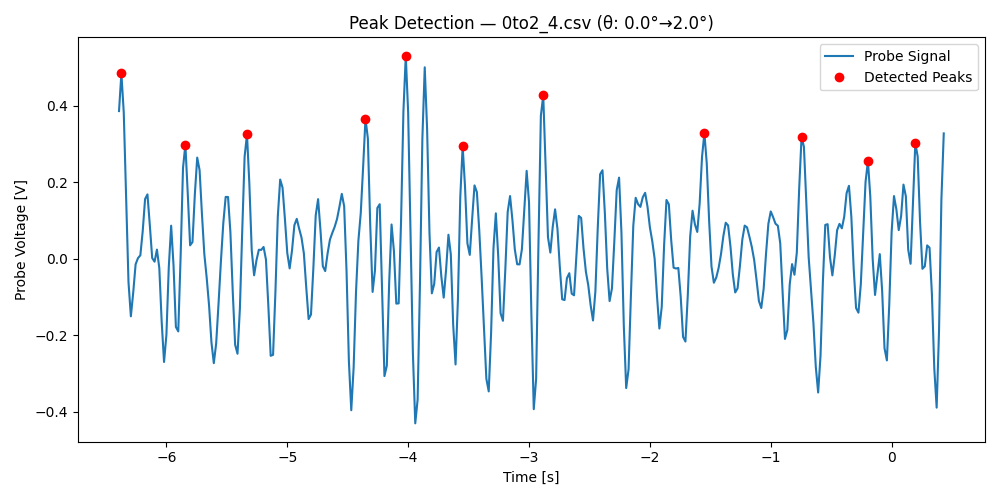
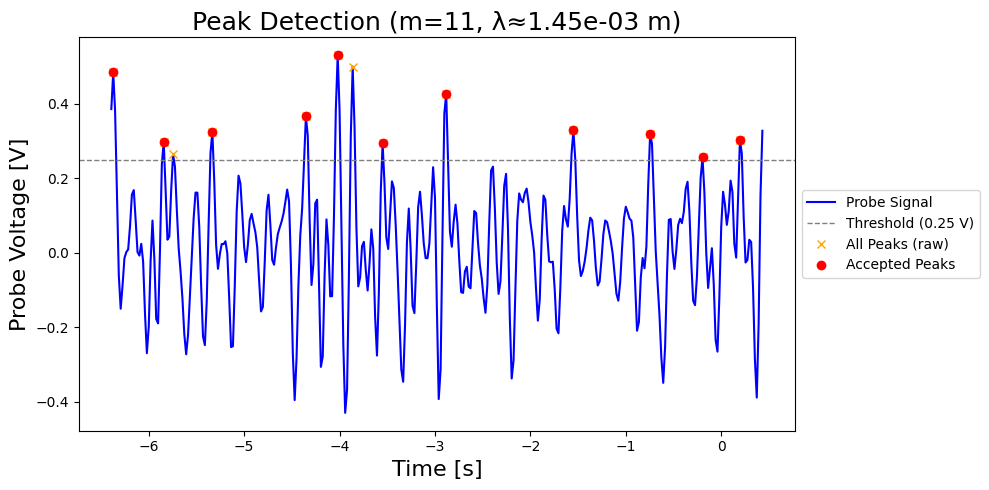
major changes

Changed region(s): [[0.0, 0.0306, 1.0, 0.8265], [0.0303, 0.7959, 1.0, 0.9796]]

diff --git a/noisefilter2.py b/noisefilter2.py
@@ -7,13 +7,12 @@ import os
 import csv
 
 # ---------------- Configuration (EDIT THESE TWO) ----------------
-lambda_m = 532e-9         # Laser wavelength in meters (EDIT: use your measured or nominal λ)
+lambda_m = 521e-9         # Laser wavelength in meters (EDIT: use your measured or nominal λ)
 d_slab_m = 8.0e-3         # Slab thickness in meters (EDIT: set to your slab thickness)
 
 # Peak detection parameters
 strong_threshold = 0.25   # V; keep only region where y >= this value
-peak_height = 0.25         # V; minimum peak height
-min_peak_separation_s = 0.25  # s; reject peaks closer than this in time
+peak_height = 0.25        # V; minimum peak height
 
 # Output
 out_dir = "results_n_estimation"
@@ -21,8 +20,6 @@ os.makedirs(out_dir, exist_ok=True)
 summary_csv = os.path.join(out_dir, "refractive_index_summary.csv")
 
 # ---------------- File groups and angle sweeps ----------------
-# We interpret the filename prefixes as angular sweeps: 0→2°, 0→4°, 0→6°.
-# Angles are in degrees here and converted to radians for computation.
 file_specs = []
 file_specs += [(f"0to2_{i}.csv", 0.0, 2.0) for i in (2, 4, 6)]
 file_specs += [(f"0to4_{i}.csv", 0.0, 4.0) for i in (2, 4, 6)]
@@ -46,8 +43,6 @@ def load_two_columns_csv(path):
     if not all_rows:
         raise ValueError(f"No valid numeric data in {path}")
     arr = np.array(all_rows, dtype=float)
-    if arr.shape[1] < 2:
-        raise ValueError(f"{path} does not contain at least two numeric columns")
     return arr[:,0], arr[:,1]
 
 # ---------------- Utility: trim to strong region ----------------
@@ -59,37 +54,28 @@ def trim_strong_region(t, y, threshold):
     last_idx = len(mask) - 1 - np.argmax(mask[::-1])
     return t[first_idx:last_idx+1], y[first_idx:last_idx+1]
 
-# ---------------- Utility: peak detection with time-spacing filter ----------------
+# ---------------- Utility: peak detection ----------------
 def detect_filtered_peaks(t, y, height=0.25, min_sep_fraction=0.04):
-    """
-    Detect peaks with minimum separation defined as a fraction of total duration.
-    """
     peaks, _ = find_peaks(y, height=height)
     if len(peaks) == 0:
         return []
-
     total_time = t[-1] - t[0]
     min_sep = min_sep_fraction * total_time
-
-    filtered_peaks = []
+    filtered = []
     last_time = -np.inf
     for p in peaks:
         tp = t[p]
         if tp - last_time > min_sep:
-            filtered_peaks.append(p)
+            filtered.append(p)
             last_time = tp
-    return filtered_peaks
+    return filtered
 
-
-
-# ---------------- Physics model functions ----------------
+# ---------------- Physics model ----------------
 def F(n, theta_rad):
-    # F(n, theta) = sqrt(n^2 - sin^2 theta) - cos theta
     s = math.sin(theta_rad)
     c = math.cos(theta_rad)
     inside = n*n - s*s
     if inside <= 0:
-        # Outside physical domain (total internal), but our theta_a → theta_b are small; keep guard.
         return float("nan")
     return math.sqrt(inside) - c
 
@@ -100,14 +86,8 @@ def m_predicted(n, theta_a_deg, theta_b_deg, d_slab, wavelength):
 
 def invert_n_from_m(m_meas, theta_a_deg, theta_b_deg, d_slab, wavelength,
                     n_lo=1.0001, n_hi=2.5):
-    """
-    Solve m_predicted(n) = m_meas for n in [n_lo, n_hi] using brentq.
-    Adjust n_hi if needed to ensure a sign change.
-    """
     def g(n):
         return m_predicted(n, theta_a_deg, theta_b_deg, d_slab, wavelength) - m_meas
-
-    # Ensure sign change by expanding n_hi if necessary (up to a safe ceiling).
     f_lo = g(n_lo)
     f_hi = g(n_hi)
     tries = 0
@@ -115,64 +95,73 @@ def invert_n_from_m(m_meas, theta_a_deg, theta_b_deg, d_slab, wavelength,
         n_hi += 0.25
         f_hi = g(n_hi)
         tries += 1
-
     if np.sign(f_lo) == np.sign(f_hi):
-        raise RuntimeError("Could not bracket a root for n; check inputs (m, angles, d, lambda).")
-
+        raise RuntimeError("Could not bracket root for n.")
     return brentq(g, n_lo, n_hi, xtol=1e-9, rtol=1e-9, maxiter=200)
 
 # ---------------- Main loop ----------------
 rows = []
-grouped_results = {2: [], 4: [], 6: []}   # store n_estimates by angle range
-grouped_m = {2: [], 4: [], 6: []}         # store m counts
+grouped_results = {2: [], 4: [], 6: []}
+grouped_m = {2: [], 4: [], 6: []}
 
+print("\n===== Trial Results =====")
 for fname, theta_a_deg, theta_b_deg in file_specs:
     if not os.path.exists(fname):
-        print(f"Warning: {fname} not found; skipping.")
+        print(f"{fname}: file not found; skipping.")
         continue
 
     try:
         t, y = load_two_columns_csv(fname)
     except Exception as e:
-        print(f"Error reading {fname}: {e}")
+        print(f"{fname}: error reading file ({e}).")
         continue
 
     t_trim, y_trim = trim_strong_region(t, y, strong_threshold)
     if t_trim is None:
-        print(f"{fname}: no data ≥ {strong_threshold:.2f} V; skipping.")
+        print(f"{fname}: no region ≥ {strong_threshold:.2f} V; skipping.")
         continue
 
     idx = detect_filtered_peaks(t_trim, y_trim, peak_height, min_sep_fraction=0.04)
     m_meas = int(len(idx))
 
-    # Numerical inversion for n
     try:
-        n_est = invert_n_from_m(
-            m_meas=m_meas,
-            theta_a_deg=theta_a_deg,
-            theta_b_deg=theta_b_deg,
-            d_slab=d_slab_m,
-            wavelength=lambda_m,
-            n_lo=1.0001,
-            n_hi=2.0
-        )
+        n_est = invert_n_from_m(m_meas, theta_a_deg, theta_b_deg, d_slab_m, lambda_m)
     except Exception as e:
         n_est = np.nan
-        print(f"{fname}: could not estimate n ({e}).")
 
-    # Save plot
+        # ---------------- Plot and save ----------------
     plt.figure(figsize=(10, 5))
-    plt.plot(t_trim, y_trim, label="Probe Signal")
+    plt.plot(t_trim, y_trim, label="Probe Signal", color="blue")
+
+    # Horizontal threshold line
+    plt.axhline(strong_threshold, color="gray", linestyle="--", linewidth=1,
+                label=f"Threshold ({strong_threshold} V)")
+
+    # Plot all raw peaks (before filtering)
+    all_peaks, _ = find_peaks(y_trim, height=peak_height)
+    plt.plot(t_trim[all_peaks], y_trim[all_peaks], "x", color="orange", label="All Peaks (raw)")
+
+    # Plot filtered peaks (after separation)
+    if len(idx) > 0:
+        plt.plot(t_trim[idx], y_trim[idx], "ro", label="Accepted Peaks")
+
+    plt.xlabel("Time [s]", fontsize=16)
+    plt.ylabel("Probe Voltage [V]", fontsize=16)
+
     if m_meas > 0:
-        plt.plot(t_trim[idx], y_trim[idx], "ro", label="Detected Peaks")
-    plt.xlabel("Time [s]")
-    plt.ylabel("Probe Voltage [V]")
-    plt.title(f"Peak Detection — {fname} (θ: {theta_a_deg}°→{theta_b_deg}°)")
-    plt.legend()
+        plt.title(f"Peak Detection (m={m_meas}, λ≈{2*d_slab_m/m_meas:.2e} m)",
+                fontsize=18)
+    else:
+        plt.title("Peak Detection (no valid peaks)", fontsize=18)
+
+    # Legend outside
+    plt.legend(loc="center left", bbox_to_anchor=(1, 0.5))
     plt.tight_layout()
+
     plot_path = os.path.join(out_dir, f"{os.path.splitext(fname)[0]}_peaks.png")
-    plt.savefig(plot_path)
+    plt.savefig(plot_path, bbox_inches="tight")
     plt.close()
+
 
     # Record
     rows.append({
@@ -184,36 +173,33 @@ for fname, theta_a_deg, theta_b_deg in file_specs:
         "plot": plot_path
     })
 
-    # Group results by final angle (2, 4, or 6 degrees)
-    end_angle = int(theta_b_deg)
+    grouped_m[int(theta_b_deg)].append(m_meas)
     if np.isfinite(n_est):
-        grouped_results[end_angle].append(n_est)
-    grouped_m[end_angle].append(m_meas)
+        grouped_results[int(theta_b_deg)].append(n_est)
 
     if np.isfinite(n_est):
-        print(f"{fname}: m = {m_meas:3d}, θ = {theta_a_deg:.1f}°→{theta_b_deg:.1f}°, n = {n_est:.5f}")
+        print(f"{fname}: m = {m_meas}, n = {n_est:.5f}")
     else:
-        print(f"{fname}: m = {m_meas:3d}, θ = {theta_a_deg:.1f}°→{theta_b_deg:.1f}°, n = NaN")
+        print(f"{fname}: m = {m_meas}, n = NaN")
 
-# ---------------- Summary statistics ----------------
+# ---------------- Summary ----------------
 def summarize(values):
     arr = np.array([x for x in values if np.isfinite(x)], dtype=float)
     if arr.size == 0:
-        return np.nan, np.nan, np.nan
+        return np.nan, np.nan
     mean = np.mean(arr)
-    std = np.std(arr, ddof=1) if arr.size > 1 else 0.0
-    sem = std / math.sqrt(arr.size) if arr.size > 1 else 0.0
-    return mean, std, sem
+    sem = np.std(arr, ddof=1)/math.sqrt(arr.size) if arr.size > 1 else 0.0
+    return mean, sem
 
 print("\n===== Summary by Angle Range =====")
 for angle in (2, 4, 6):
-    mean_m, std_m, sem_m = summarize(grouped_m[angle])
-    mean_n, std_n, sem_n = summarize(grouped_results[angle])
+    mean_m, sem_m = summarize(grouped_m[angle])
+    mean_n, sem_n = summarize(grouped_results[angle])
     print(f"0→{angle}°:")
-    print(f"  Peaks m: mean = {mean_m:.2f}, std = {std_m:.2f}, stderr = {sem_m:.2f}")
-    print(f"  Refractive index n: mean = {mean_n:.5f}, std = {std_n:.5f}, stderr = {sem_n:.5f}")
+    print(f"  Average m = {mean_m:.2f} ± {sem_m:.2f}")
+    print(f"  Average n = {mean_n:.5f} ± {sem_n:.5f}")
 
-# ---------------- Write CSV summary ----------------
+# ---------------- Save CSV ----------------
 with open(summary_csv, "w", newline="") as f:
     writer = csv.writer(f)
     writer.writerow(["file", "theta_start_deg", "theta_end_deg", "peaks_m", "n_estimate", "plot_path"])
@@ -222,4 +208,3 @@ with open(summary_csv, "w", newline="") as f:
 
 print(f"\nSummary written to: {summary_csv}")
 print(f"Plots saved under: {out_dir}/")
-

diff --git a/noisefilter.py b/noisefilter.py
@@ -8,8 +8,8 @@ d = 5e-6
 threshold = 0.25  # unified threshold (region + peak detection)
 
 # Store results
-peak_counts = []
-wavelengths = []
+peak_counts = []   # valid trials
+trial_results = [] # all trials (including skipped)
 
 # Ensure output folder exists
 out_dir = "results"
@@ -20,6 +20,7 @@ for i in range(1, 11):
     filename = f"c1_data_{i}.csv"
     if not os.path.exists(filename):
         print(f"Warning: {filename} not found, skipping.")
+        trial_results.append((i, None))
         continue
 
     # ---------------- 1) Load CSV (ignore comment lines) ----------------
@@ -37,6 +38,7 @@ for i in range(1, 11):
     data = np.array(all_data)
     if data.shape[1] < 2:
         print(f"{filename} does not have at least two columns, skipping.")
+        trial_results.append((i, None))
         continue
 
     # Extract time and probe signal
@@ -47,6 +49,7 @@ for i in range(1, 11):
     mask = y >= threshold
     if not mask.any():
         print(f"No data points >= {threshold} V in {filename}, skipping.")
+        trial_results.append((i, None))
         continue
 
     first_idx = np.argmax(mask)
@@ -73,7 +76,9 @@ for i in range(1, 11):
     if m > 0:
         wavelength = 2 * d / m
         peak_counts.append(m)
-        wavelengths.append(wavelength)
+        trial_results.append((i, m))
+    else:
+        trial_results.append((i, 0))
 
     # ---------------- 5) Plot and save ----------------
     plt.figure(figsize=(10, 5))
@@ -89,32 +94,53 @@ for i in range(1, 11):
     # Plot filtered peaks (after min separation)
     plt.plot(t[filtered_peaks], y[filtered_peaks], "ro", label="Accepted Peaks")
 
-    plt.xlabel("Time [s]")
-    plt.ylabel("Probe Voltage [V]")
-    plt.title(f"Peak Detection - {filename}\n(m={m}, λ={wavelength:.2e} m)")
-    plt.legend()
+    plt.xlabel("Time [s]", fontsize=16)
+    plt.ylabel("Probe Voltage [V]", fontsize=16)
+    plt.title(f"Peak Detection (m={m}, λ={2*d/m:.2e} m)" if m > 0 else f"Peak Detection (no valid peaks)", fontsize=18)
+
+    # Place legend outside on the right
+    plt.legend(loc="center left", bbox_to_anchor=(1, 0.5))
     plt.tight_layout()
-    plt.savefig(os.path.join(out_dir, f"{filename}_peaks.png"))
+
+    plt.savefig(os.path.join(out_dir, f"{filename}_peaks.png"), bbox_inches="tight")
     plt.close()
 
+
 # ---------------- 6) Summary statistics ----------------
+print("\nFringe counts per trial:")
+for trial, m in trial_results:
+    if m is None:
+        print(f" Trial {trial}: skipped (no valid data)")
+    elif m == 0:
+        print(f" Trial {trial}: no valid peaks")
+    else:
+        print(f" Trial {trial}: m = {m}")
+
 if peak_counts:
+    peak_counts = np.array(peak_counts)
+
+    # Average and standard error of fringe counts
     avg_peaks = np.mean(peak_counts)
-    std_peaks = np.std(peak_counts, ddof=1)  # sample std
-    stderr_peaks = std_peaks / np.sqrt(len(peak_counts))
+    std_peaks = np.std(peak_counts, ddof=1)   # sample standard deviation
+    stderr_peaks = std_peaks / np.sqrt(len(peak_counts))  # standard error of mean
 
-    wavelengths = np.array(wavelengths)
-    avg_wavelength = np.mean(wavelengths)
+    # Wavelength from mean fringe count
+    wavelength_mean = 2 * d / avg_peaks
 
-    # Error propagation
-    d_error = 1e-7  # error in d
-    sigma_m = stderr_peaks
+    # Error propagation: λ = 2d/m
+    d_error = 1e-7
     m_avg = avg_peaks
-    stderr_wavelength = np.sqrt((2 / m_avg * d_error)**2 +
-                                (2 * d / m_avg**2 * sigma_m)**2)
+    sigma_m = stderr_peaks
+    stderr_wavelength = np.sqrt(
+        (2 / m_avg * d_error)**2 +   # contribution from d
+        (2 * d / m_avg**2 * sigma_m)**2   # contribution from m
+    )
 
-    print("\nSummary across all files:")
-    print(f"Peaks: mean = {avg_peaks:.2f}, std = {std_peaks:.2f}, stderr = {stderr_peaks:.2f}")
-    print(f"Wavelength: mean = {avg_wavelength:.3e} m, stderr (propagated) = {stderr_wavelength:.3e} m")
+    print("\nSummary across all valid trials:")
+    print(f"Average fringe count (m): {avg_peaks:.2f}")
+    print(f"Standard error of fringe count: {stderr_peaks:.2f}")
+    print(f"Experimental wavelength: {wavelength_mean:.3e} m")
+    print(f"Propagated error in wavelength: {stderr_wavelength:.3e} m")
+
 else:
     print("No valid data found across files.")
